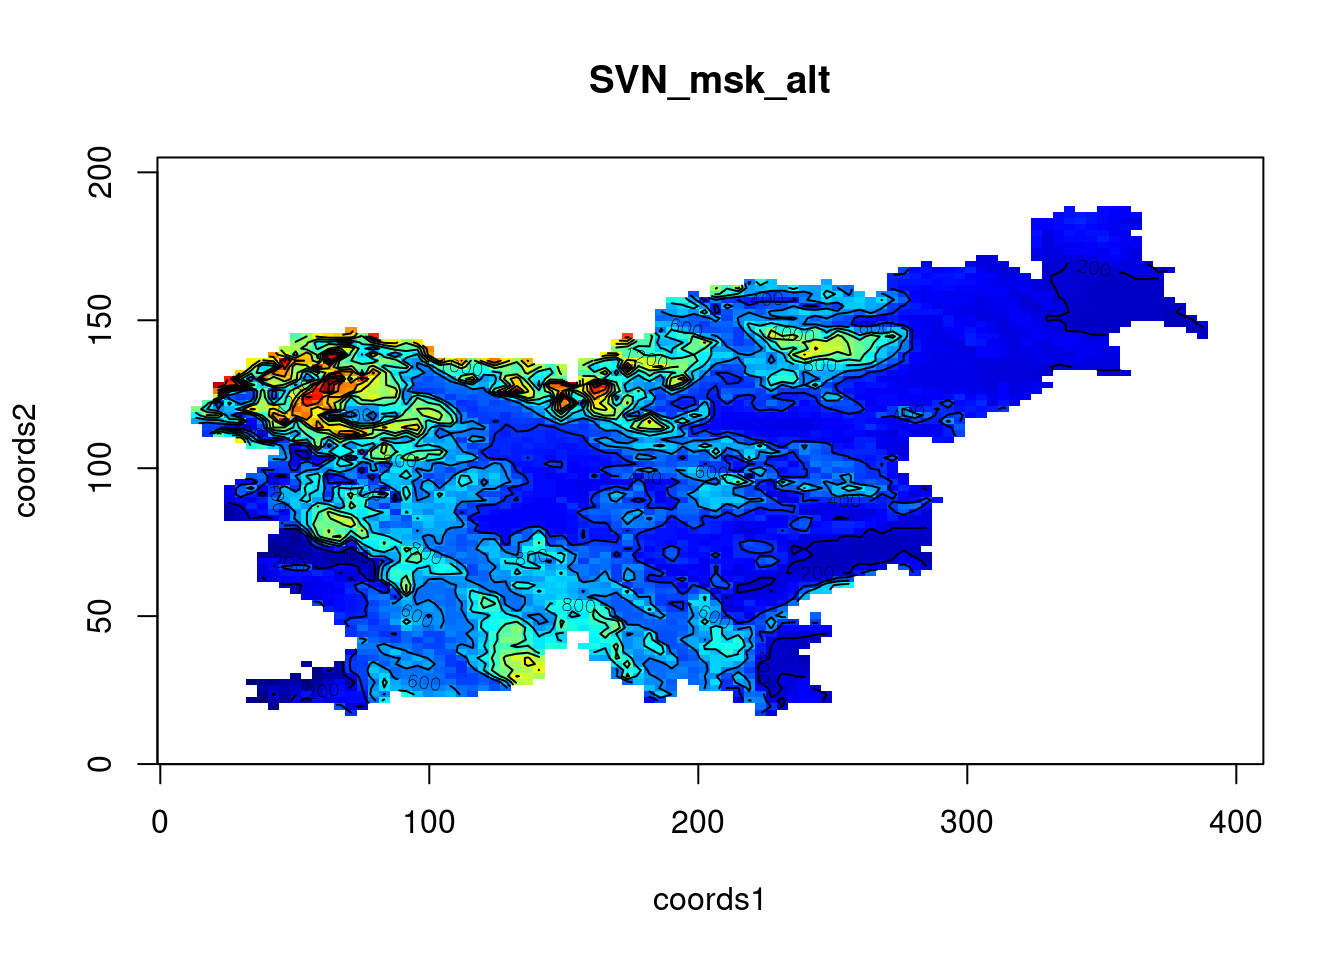
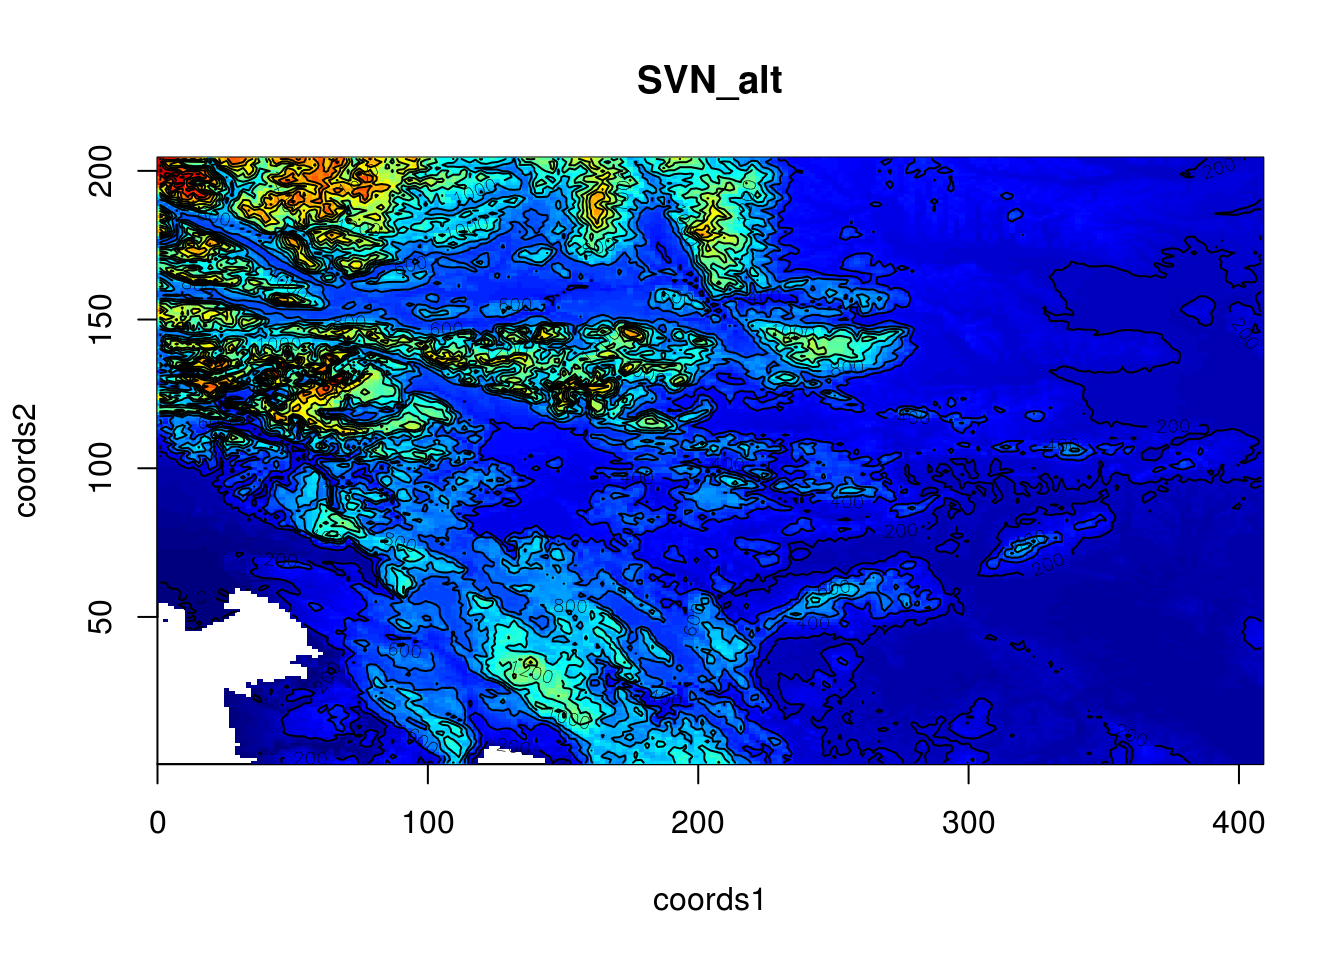
rpgkdown (ci skip)

diff --git a/docs/articles/geo2smoof.html b/docs/articles/geo2smoof.html
@@ -8,8 +8,11 @@
 <title>geo2smoof • geo2smoof</title>
 <!-- jquery --><script src="https://code.jquery.com/jquery-3.1.0.min.js" integrity="sha384-nrOSfDHtoPMzJHjVTdCopGqIqeYETSXhZDFyniQ8ZHcVy08QesyHcnOUpMpqnmWq" crossorigin="anonymous"></script><!-- Bootstrap --><link href="https://maxcdn.bootstrapcdn.com/bootswatch/3.3.7/cosmo/bootstrap.min.css" rel="stylesheet" crossorigin="anonymous">
 <script src="https://maxcdn.bootstrapcdn.com/bootstrap/3.3.7/js/bootstrap.min.js" integrity="sha384-Tc5IQib027qvyjSMfHjOMaLkfuWVxZxUPnCJA7l2mCWNIpG9mGCD8wGNIcPD7Txa" crossorigin="anonymous"></script><!-- Font Awesome icons --><link href="https://maxcdn.bootstrapcdn.com/font-awesome/4.6.3/css/font-awesome.min.css" rel="stylesheet" integrity="sha384-T8Gy5hrqNKT+hzMclPo118YTQO6cYprQmhrYwIiQ/3axmI1hQomh7Ud2hPOy8SP1" crossorigin="anonymous">
-<!-- pkgdown --><link href="../pkgdown.css" rel="stylesheet">
-<script src="../jquery.sticky-kit.min.js"></script><script src="../pkgdown.js"></script><!-- mathjax --><script src="https://mathjax.rstudio.com/latest/MathJax.js?config=TeX-AMS-MML_HTMLorMML"></script><!--[if lt IE 9]>
+<!-- clipboard.js --><script src="https://cdnjs.cloudflare.com/ajax/libs/clipboard.js/1.7.1/clipboard.min.js" integrity="sha384-cV+rhyOuRHc9Ub/91rihWcGmMmCXDeksTtCihMupQHSsi8GIIRDG0ThDc3HGQFJ3" crossorigin="anonymous"></script><!-- pkgdown --><link href="../pkgdown.css" rel="stylesheet">
+<script src="../jquery.sticky-kit.min.js"></script><script src="../pkgdown.js"></script><meta property="og:title" content="geo2smoof">
+<meta property="og:description" content="">
+<meta name="twitter:card" content="summary">
+<!-- mathjax --><script src="https://mathjax.rstudio.com/latest/MathJax.js?config=TeX-AMS-MML_HTMLorMML"></script><!--[if lt IE 9]>
 <script src="https://oss.maxcdn.com/html5shiv/3.7.3/html5shiv.min.js"></script>
 <script src="https://oss.maxcdn.com/respond/1.4.2/respond.min.js"></script>
 <![endif]-->
@@ -80,15 +83,32 @@
 <div id="raster" class="section level3">
 <h3 class="hasAnchor">
 <a href="#raster" class="anchor"></a>Raster</h3>
-<div class="sourceCode"><pre class="sourceCode r"><code class="sourceCode r">alt =<span class="st"> </span>raster<span class="op">::</span><span class="kw"><a href="http://www.rdocumentation.org/packages/raster/topics/getData">getData</a></span>(<span class="st">'alt'</span>, <span class="dt">country=</span><span class="st">'SVN'</span>)
-sf =<span class="st"> </span><span class="kw"><a href="../reference/convertRasterLayerToSmoof.html">convertRasterLayerToSmoof</a></span>(<span class="dt">raster.layer =</span> alt)
+<div class="sourceCode"><pre class="sourceCode r"><code class="sourceCode r">alt_s =<span class="st"> </span>raster::<span class="kw">getData</span>(<span class="st">'alt'</span>, <span class="dt">country=</span><span class="st">'SVN'</span>, <span class="dt">mask =</span> <span class="ot">FALSE</span>)
+sf =<span class="st"> </span><span class="kw"><a href="../reference/convertRasterLayerToSmoof.html">convertRasterLayerToSmoof</a></span>(<span class="dt">raster.layer =</span> alt_s)
 <span class="kw">getParamSet</span>(sf)</code></pre></div>
 <pre><code>##                 Type len Def         Constr Req Tunable Trafo
 ## coords numericvector   2   - 1,1 to 408,204   -    TRUE     -</code></pre>
 <div class="sourceCode"><pre class="sourceCode r"><code class="sourceCode r"><span class="kw">sf</span>(<span class="kw">c</span>(<span class="dv">204</span>,<span class="dv">103</span>))</code></pre></div>
 <pre><code>## [1] 343</code></pre>
-<div class="sourceCode"><pre class="sourceCode r"><code class="sourceCode r"><span class="kw">plot2DNumeric</span>(sf, <span class="dt">render.levels =</span> <span class="ot">TRUE</span>)</code></pre></div>
+<div class="sourceCode"><pre class="sourceCode r"><code class="sourceCode r"><span class="kw">plot2DNumeric</span>(sf, <span class="dt">render.levels =</span> <span class="ot">TRUE</span>, <span class="dt">n.samples =</span> <span class="dv">200</span>)</code></pre></div>
 <p><img src="geo2smoof_files/figure-html/unnamed-chunk-1-1.png" width="672"></p>
+</div>
+<div id="combining-multiple-raster" class="section level3">
+<h3 class="hasAnchor">
+<a href="#combining-multiple-raster" class="anchor"></a>Combining Multiple Raster</h3>
+<p>Generating a function out of the subsection of the alps:</p>
+<div class="sourceCode"><pre class="sourceCode r"><code class="sourceCode r">alt_d =<span class="st"> </span>raster::<span class="kw">getData</span>(<span class="st">'alt'</span>, <span class="dt">country=</span><span class="st">'DEU'</span>)
+alt_a =<span class="st"> </span>raster::<span class="kw">getData</span>(<span class="st">'alt'</span>, <span class="dt">country=</span><span class="st">'AUT'</span>)
+alt_c =<span class="st"> </span>raster::<span class="kw">getData</span>(<span class="st">'alt'</span>, <span class="dt">country=</span><span class="st">'CHE'</span>, <span class="dt">mask =</span> <span class="ot">FALSE</span>)
+alt_i =<span class="st"> </span>raster::<span class="kw">getData</span>(<span class="st">'alt'</span>, <span class="dt">country=</span><span class="st">'ITA'</span>)
+alt_all =<span class="st"> </span><span class="kw">do.call</span>(raster::merge, <span class="kw">list</span>(alt_d, alt_a, alt_c, alt_i, alt_s))
+alt_cropped =<span class="st"> </span>raster::<span class="kw">crop</span>(alt_all, raster::<span class="kw">extent</span>(<span class="dv">7</span>,<span class="dv">16</span>,<span class="fl">45.5</span>,<span class="fl">47.8</span>))
+sf =<span class="st"> </span><span class="kw"><a href="../reference/convertRasterLayerToSmoof.html">convertRasterLayerToSmoof</a></span>(<span class="dt">raster.layer =</span> alt_cropped)
+<span class="kw">getParamSet</span>(sf)</code></pre></div>
+<pre><code>##                 Type len Def              Constr Req Tunable Trafo
+## coords numericvector   2   - 1,1 to 1.08e+03,276   -    TRUE     -</code></pre>
+<div class="sourceCode"><pre class="sourceCode r"><code class="sourceCode r"><span class="kw">plot2DNumeric</span>(sf, <span class="dt">render.levels =</span> <span class="ot">TRUE</span>, <span class="dt">n.samples =</span> <span class="dv">200</span>)</code></pre></div>
+<p><img src="geo2smoof_files/figure-html/unnamed-chunk-2-1.png" width="672"></p>
 </div>
 <div id="google-maps-elevation-api" class="section level3">
 <h3 class="hasAnchor">
@@ -97,10 +117,8 @@ sf =<span class="st"> </span><span class="kw"><a href="../reference/convertRaste
 <div class="sourceCode"><pre class="sourceCode r"><code class="sourceCode r">lat.range =<span class="st"> </span><span class="kw">c</span>(<span class="fl">28.5</span>, <span class="fl">27.5</span>)
 lon.range =<span class="st"> </span><span class="kw">c</span>(<span class="fl">86.5</span>, <span class="fl">87.5</span>)
 gsf =<span class="st"> </span><span class="kw"><a href="../reference/convertGoogleApiToSmoof.html">convertGoogleApiToSmoof</a></span>(<span class="dt">lat.range =</span> lat.range, <span class="dt">lon.range =</span> lon.range)
-<span class="kw">gsf</span>(<span class="kw">c</span>(<span class="dv">29</span>,<span class="dv">87</span>))</code></pre></div>
-<pre><code>## [1] 5216.916</code></pre>
-<div class="sourceCode"><pre class="sourceCode r"><code class="sourceCode r"><span class="kw">plot2DNumeric</span>(gsf, <span class="dt">render.levels =</span> <span class="ot">TRUE</span>, <span class="dt">n.samples =</span> <span class="dv">6</span>)</code></pre></div>
-<p><img src="geo2smoof_files/figure-html/unnamed-chunk-2-1.png" width="672"></p>
+<span class="kw">gsf</span>(<span class="kw">c</span>(<span class="dv">29</span>,<span class="dv">87</span>))
+<span class="kw">plot2DNumeric</span>(gsf, <span class="dt">render.levels =</span> <span class="ot">TRUE</span>, <span class="dt">n.samples =</span> <span class="dv">5</span>)</code></pre></div>
 </div>
 </div>
 </div>
@@ -125,7 +143,7 @@ gsf =<span class="st"> </span><span class="kw"><a href="../reference/convertGoog
 </div>
 
 <div class="pkgdown">
-  <p>Site built with <a href="http://hadley.github.io/pkgdown/">pkgdown</a>.</p>
+  <p>Site built with <a href="http://pkgdown.r-lib.org/">pkgdown</a>.</p>
 </div>
 
       </footer>

diff --git a/docs/index.html b/docs/index.html
@@ -8,8 +8,11 @@
 <title>Geo2Smoof converts Elevation Informations to Smoof Functions • geo2smoof</title>
 <!-- jquery --><script src="https://code.jquery.com/jquery-3.1.0.min.js" integrity="sha384-nrOSfDHtoPMzJHjVTdCopGqIqeYETSXhZDFyniQ8ZHcVy08QesyHcnOUpMpqnmWq" crossorigin="anonymous"></script><!-- Bootstrap --><link href="https://maxcdn.bootstrapcdn.com/bootswatch/3.3.7/cosmo/bootstrap.min.css" rel="stylesheet" crossorigin="anonymous">
 <script src="https://maxcdn.bootstrapcdn.com/bootstrap/3.3.7/js/bootstrap.min.js" integrity="sha384-Tc5IQib027qvyjSMfHjOMaLkfuWVxZxUPnCJA7l2mCWNIpG9mGCD8wGNIcPD7Txa" crossorigin="anonymous"></script><!-- Font Awesome icons --><link href="https://maxcdn.bootstrapcdn.com/font-awesome/4.6.3/css/font-awesome.min.css" rel="stylesheet" integrity="sha384-T8Gy5hrqNKT+hzMclPo118YTQO6cYprQmhrYwIiQ/3axmI1hQomh7Ud2hPOy8SP1" crossorigin="anonymous">
-<!-- pkgdown --><link href="pkgdown.css" rel="stylesheet">
-<script src="jquery.sticky-kit.min.js"></script><script src="pkgdown.js"></script><!-- mathjax --><script src="https://mathjax.rstudio.com/latest/MathJax.js?config=TeX-AMS-MML_HTMLorMML"></script><!--[if lt IE 9]>
+<!-- clipboard.js --><script src="https://cdnjs.cloudflare.com/ajax/libs/clipboard.js/1.7.1/clipboard.min.js" integrity="sha384-cV+rhyOuRHc9Ub/91rihWcGmMmCXDeksTtCihMupQHSsi8GIIRDG0ThDc3HGQFJ3" crossorigin="anonymous"></script><!-- pkgdown --><link href="pkgdown.css" rel="stylesheet">
+<script src="jquery.sticky-kit.min.js"></script><script src="pkgdown.js"></script><meta property="og:title" content="Geo2Smoof converts Elevation Informations to Smoof Functions">
+<meta property="og:description" content="Convert a elevation RasterLayer from the package raster or an Google Maps Elevation API Call to a function that you can optimize. ">
+<meta name="twitter:card" content="summary">
+<!-- mathjax --><script src="https://mathjax.rstudio.com/latest/MathJax.js?config=TeX-AMS-MML_HTMLorMML"></script><!--[if lt IE 9]>
 <script src="https://oss.maxcdn.com/html5shiv/3.7.3/html5shiv.min.js"></script>
 <script src="https://oss.maxcdn.com/respond/1.4.2/respond.min.js"></script>
 <![endif]-->
@@ -71,16 +74,16 @@
 <div id="installation" class="section level2">
 <h2 class="hasAnchor">
 <a href="#installation" class="anchor"></a>Installation</h2>
-<div class="sourceCode"><pre class="sourceCode r"><code class="sourceCode r">devtools<span class="op">::</span><span class="kw"><a href="http://www.rdocumentation.org/packages/devtools/topics/install_github">install_github</a></span>(<span class="st">"jakob-r/geo2smoof"</span>)</code></pre></div>
+<div class="sourceCode"><pre class="sourceCode r"><code class="sourceCode r">devtools::<span class="kw">install_github</span>(<span class="st">"jakob-r/geo2smoof"</span>)</code></pre></div>
 <div class="sourceCode"><pre class="sourceCode r"><code class="sourceCode r"><span class="kw">library</span>(geo2smoof)
 <span class="co"># list available countries</span>
 <span class="co"># raster::getData('ISO3')</span>
-alt =<span class="st"> </span>raster<span class="op">::</span><span class="kw"><a href="http://www.rdocumentation.org/packages/raster/topics/getData">getData</a></span>(<span class="st">'alt'</span>, <span class="dt">country=</span><span class="st">'JAM'</span>)
+alt =<span class="st"> </span>raster::<span class="kw">getData</span>(<span class="st">'alt'</span>, <span class="dt">country=</span><span class="st">'JAM'</span>)
 sf =<span class="st"> </span><span class="kw"><a href="reference/convertRasterLayerToSmoof.html">convertRasterLayerToSmoof</a></span>(<span class="dt">raster.layer =</span> alt)
 <span class="kw">plot2DNumeric</span>(sf, <span class="dt">render.levels =</span> <span class="ot">TRUE</span>)</code></pre></div>
 <p><img src="index_files/figure-html/unnamed-chunk-2-1.png" width="672"></p>
 <div class="sourceCode"><pre class="sourceCode r"><code class="sourceCode r"><span class="co"># find the highest point with optim()</span>
-<span class="kw">optim</span>(<span class="kw">c</span>(<span class="dv">140</span>,<span class="dv">80</span>), <span class="dt">fn =</span> <span class="cf">function</span>(...) <span class="op">-</span><span class="dv">1</span> <span class="op">*</span><span class="st"> </span><span class="kw">sf</span>(...), )</code></pre></div>
+<span class="kw">optim</span>(<span class="kw">c</span>(<span class="dv">140</span>,<span class="dv">80</span>), <span class="dt">fn =</span> function(...) -<span class="dv">1</span> *<span class="st"> </span><span class="kw">sf</span>(...), )</code></pre></div>
 <pre><code>## $par
 ## [1] 142.75146  87.33496
 ## 
@@ -125,7 +128,7 @@ sf =<span class="st"> </span><span class="kw"><a href="reference/convertRasterLa
 </div>
 
 <div class="pkgdown">
-  <p>Site built with <a href="http://hadley.github.io/pkgdown/">pkgdown</a>.</p>
+  <p>Site built with <a href="http://pkgdown.r-lib.org/">pkgdown</a>.</p>
 </div>
 
       </footer>

diff --git a/docs/reference/convertRasterLayerToSmoof.html b/docs/reference/convertRasterLayerToSmoof.html
@@ -18,6 +18,8 @@
 <!-- Font Awesome icons -->
 <link href="https://maxcdn.bootstrapcdn.com/font-awesome/4.6.3/css/font-awesome.min.css" rel="stylesheet" integrity="sha384-T8Gy5hrqNKT+hzMclPo118YTQO6cYprQmhrYwIiQ/3axmI1hQomh7Ud2hPOy8SP1" crossorigin="anonymous">
 
+<!-- clipboard.js -->
+<script src="https://cdnjs.cloudflare.com/ajax/libs/clipboard.js/1.7.1/clipboard.min.js" integrity="sha384-cV+rhyOuRHc9Ub/91rihWcGmMmCXDeksTtCihMupQHSsi8GIIRDG0ThDc3HGQFJ3" crossorigin="anonymous"></script>
 
 <!-- pkgdown -->
 <link href="../pkgdown.css" rel="stylesheet">
@@ -25,6 +27,10 @@
 <script src="../pkgdown.js"></script>
   
   
+<meta property="og:title" content="Converts a Raster Layer to Single Objective Function — convertRasterLayerToSmoof" />
+
+<meta property="og:description" content="Takes the altitude informations from a RasterLayer Object as an objective for a smoof function." />
+<meta name="twitter:card" content="summary" />
 <!-- mathjax -->
 <script src='https://mathjax.rstudio.com/latest/MathJax.js?config=TeX-AMS-MML_HTMLorMML'></script>
 
@@ -138,7 +144,7 @@ Otherwise the function will just return <code>NA</code> there.</p></td>
 </div>
 
 <div class="pkgdown">
-  <p>Site built with <a href="http://hadley.github.io/pkgdown/">pkgdown</a>.</p>
+  <p>Site built with <a href="http://pkgdown.r-lib.org/">pkgdown</a>.</p>
 </div>
 
       </footer>

diff --git a/docs/reference/convertGoogleApiToSmoof.html b/docs/reference/convertGoogleApiToSmoof.html
@@ -18,6 +18,8 @@
 <!-- Font Awesome icons -->
 <link href="https://maxcdn.bootstrapcdn.com/font-awesome/4.6.3/css/font-awesome.min.css" rel="stylesheet" integrity="sha384-T8Gy5hrqNKT+hzMclPo118YTQO6cYprQmhrYwIiQ/3axmI1hQomh7Ud2hPOy8SP1" crossorigin="anonymous">
 
+<!-- clipboard.js -->
+<script src="https://cdnjs.cloudflare.com/ajax/libs/clipboard.js/1.7.1/clipboard.min.js" integrity="sha384-cV+rhyOuRHc9Ub/91rihWcGmMmCXDeksTtCihMupQHSsi8GIIRDG0ThDc3HGQFJ3" crossorigin="anonymous"></script>
 
 <!-- pkgdown -->
 <link href="../pkgdown.css" rel="stylesheet">
@@ -25,6 +27,10 @@
 <script src="../pkgdown.js"></script>
   
   
+<meta property="og:title" content="Converts a Google Maps API Call to Single Objective Function — convertGoogleApiToSmoof" />
+
+<meta property="og:description" content="Receives the JSON from Google Maps API and extracts height" />
+<meta name="twitter:card" content="summary" />
 <!-- mathjax -->
 <script src='https://mathjax.rstudio.com/latest/MathJax.js?config=TeX-AMS-MML_HTMLorMML'></script>
 
@@ -136,7 +142,7 @@ Will be read from config file.</p></td>
 </div>
 
 <div class="pkgdown">
-  <p>Site built with <a href="http://hadley.github.io/pkgdown/">pkgdown</a>.</p>
+  <p>Site built with <a href="http://pkgdown.r-lib.org/">pkgdown</a>.</p>
 </div>
 
       </footer>

diff --git a/docs/reference/saveGeo2SmoofConfig.html b/docs/reference/saveGeo2SmoofConfig.html
@@ -18,6 +18,8 @@
 <!-- Font Awesome icons -->
 <link href="https://maxcdn.bootstrapcdn.com/font-awesome/4.6.3/css/font-awesome.min.css" rel="stylesheet" integrity="sha384-T8Gy5hrqNKT+hzMclPo118YTQO6cYprQmhrYwIiQ/3axmI1hQomh7Ud2hPOy8SP1" crossorigin="anonymous">
 
+<!-- clipboard.js -->
+<script src="https://cdnjs.cloudflare.com/ajax/libs/clipboard.js/1.7.1/clipboard.min.js" integrity="sha384-cV+rhyOuRHc9Ub/91rihWcGmMmCXDeksTtCihMupQHSsi8GIIRDG0ThDc3HGQFJ3" crossorigin="anonymous"></script>
 
 <!-- pkgdown -->
 <link href="../pkgdown.css" rel="stylesheet">
@@ -25,6 +27,10 @@
 <script src="../pkgdown.js"></script>
   
   
+<meta property="og:title" content="Saves a list of geo2smoof configuration settings to file. — saveGeo2SmoofConfig" />
+
+<meta property="og:description" content="The new configuration is automatically assigned." />
+<meta name="twitter:card" content="summary" />
 <!-- mathjax -->
 <script src='https://mathjax.rstudio.com/latest/MathJax.js?config=TeX-AMS-MML_HTMLorMML'></script>
 
@@ -122,7 +128,7 @@ Default is <code>FALSE</code>.</p></td>
 </div>
 
 <div class="pkgdown">
-  <p>Site built with <a href="http://hadley.github.io/pkgdown/">pkgdown</a>.</p>
+  <p>Site built with <a href="http://pkgdown.r-lib.org/">pkgdown</a>.</p>
 </div>
 
       </footer>

diff --git a/docs/reference/index.html b/docs/reference/index.html
@@ -18,6 +18,8 @@
 <!-- Font Awesome icons -->
 <link href="https://maxcdn.bootstrapcdn.com/font-awesome/4.6.3/css/font-awesome.min.css" rel="stylesheet" integrity="sha384-T8Gy5hrqNKT+hzMclPo118YTQO6cYprQmhrYwIiQ/3axmI1hQomh7Ud2hPOy8SP1" crossorigin="anonymous">
 
+<!-- clipboard.js -->
+<script src="https://cdnjs.cloudflare.com/ajax/libs/clipboard.js/1.7.1/clipboard.min.js" integrity="sha384-cV+rhyOuRHc9Ub/91rihWcGmMmCXDeksTtCihMupQHSsi8GIIRDG0ThDc3HGQFJ3" crossorigin="anonymous"></script>
 
 <!-- pkgdown -->
 <link href="../pkgdown.css" rel="stylesheet">
@@ -25,6 +27,7 @@
 <script src="../pkgdown.js"></script>
   
   
+<meta property="og:title" content="Function reference" />
 <!-- mathjax -->
 <script src='https://mathjax.rstudio.com/latest/MathJax.js?config=TeX-AMS-MML_HTMLorMML'></script>
 
@@ -139,7 +142,7 @@
 </div>
 
 <div class="pkgdown">
-  <p>Site built with <a href="http://hadley.github.io/pkgdown/">pkgdown</a>.</p>
+  <p>Site built with <a href="http://pkgdown.r-lib.org/">pkgdown</a>.</p>
 </div>
 
       </footer>

diff --git a/docs/articles/index.html b/docs/articles/index.html
@@ -18,6 +18,8 @@
 <!-- Font Awesome icons -->
 <link href="https://maxcdn.bootstrapcdn.com/font-awesome/4.6.3/css/font-awesome.min.css" rel="stylesheet" integrity="sha384-T8Gy5hrqNKT+hzMclPo118YTQO6cYprQmhrYwIiQ/3axmI1hQomh7Ud2hPOy8SP1" crossorigin="anonymous">
 
+<!-- clipboard.js -->
+<script src="https://cdnjs.cloudflare.com/ajax/libs/clipboard.js/1.7.1/clipboard.min.js" integrity="sha384-cV+rhyOuRHc9Ub/91rihWcGmMmCXDeksTtCihMupQHSsi8GIIRDG0ThDc3HGQFJ3" crossorigin="anonymous"></script>
 
 <!-- pkgdown -->
 <link href="../pkgdown.css" rel="stylesheet">
@@ -25,6 +27,7 @@
 <script src="../pkgdown.js"></script>
   
   
+<meta property="og:title" content="Articles" />
 <!-- mathjax -->
 <script src='https://mathjax.rstudio.com/latest/MathJax.js?config=TeX-AMS-MML_HTMLorMML'></script>
 
@@ -100,7 +103,7 @@
 </div>
 
 <div class="pkgdown">
-  <p>Site built with <a href="http://hadley.github.io/pkgdown/">pkgdown</a>.</p>
+  <p>Site built with <a href="http://pkgdown.r-lib.org/">pkgdown</a>.</p>
 </div>
 
       </footer>

diff --git a/docs/pkgdown.css b/docs/pkgdown.css
@@ -137,12 +137,6 @@ pre, code {
   color: #333;
 }
 
-pre code {
-  overflow: auto;
-  word-wrap: normal;
-  white-space: pre;
-}
-
 pre .img {
   margin: 5px 0;
 }
@@ -155,10 +149,6 @@ pre .img img {
 
 code a, pre a {
   color: #375f84;
-}
-
-a.sourceLine:hover {
-  text-decoration: none;
 }
 
 .fl      {color: #1514b5;}
